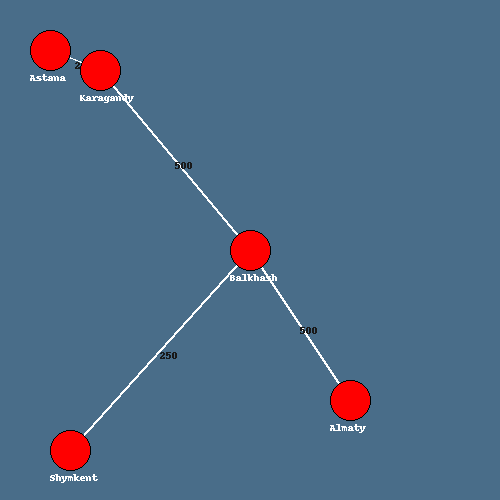
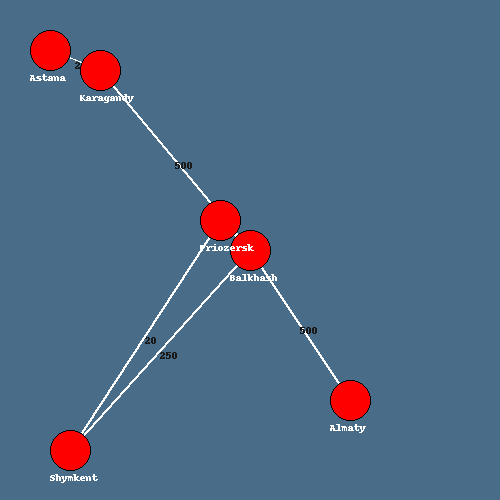
almsot implemented Dikstra's algorithm

diff --git a/test_dijkstra.py b/test_dijkstra.py
@@ -1,0 +1,82 @@
+import pytest
+from graph import Graph, Vertex, Edge
+from dijkstra import dikstra
+
+
+def test_simple():
+    almaty = Vertex("Almaty", 350, 400)
+    karagandy = Vertex("Karagandy", 100, 70)
+    astana = Vertex("Astana", 50, 50)
+    balkhash = Vertex("Balkhash", 250, 250)
+    shymkent = Vertex("Shymkent", 70, 450)
+    london = Vertex("London", 1000, 1000)
+
+    almaty_balkhash = Edge(almaty, balkhash, 500)
+    balkhash_shymkent = Edge(balkhash, shymkent, 250)
+    balkhash_karagandy = Edge(balkhash, karagandy, 500)
+    karagandy_astana = Edge(karagandy, astana, 200)
+
+    g = Graph()
+    g.add_vertex(almaty)
+    g.add_vertex(karagandy)
+    g.add_vertex(astana)
+    g.add_vertex(balkhash)
+    g.add_vertex(shymkent)
+    g.add_vertex(london)
+
+    g.add_edge(almaty_balkhash)
+    g.add_edge(balkhash_shymkent)
+    g.add_edge(balkhash_karagandy)
+    g.add_edge(karagandy_astana)
+
+    dikstra(g, almaty)
+    assert almaty.dist == 0
+    assert balkhash.dist == 500
+    assert shymkent.dist == 750
+    assert karagandy.dist == 1000
+    assert astana.dist == 1200
+    assert london.dist == float('inf')
+
+
+def test_shorter():
+    almaty = Vertex("Almaty", 350, 400)
+    karagandy = Vertex("Karagandy", 100, 70)
+    astana = Vertex("Astana", 50, 50)
+    balkhash = Vertex("Balkhash", 250, 250)
+    priozersk = Vertex("Priozersk", 220, 220)
+    shymkent = Vertex("Shymkent", 70, 450)
+
+    almaty_balkhash = Edge(almaty, balkhash, 500)
+    balkhash_shymkent = Edge(balkhash, shymkent, 250)
+    balkhash_karagandy = Edge(balkhash, karagandy, 500)
+    balkhash_priozersk = Edge(balkhash, priozersk, 30)
+    karagandy_astana = Edge(karagandy, astana, 200)
+
+    priozersk_shymkent = Edge(priozersk, shymkent, 20)
+
+    g = Graph()
+    g.add_vertex(almaty)
+    g.add_vertex(karagandy)
+    g.add_vertex(astana)
+    g.add_vertex(balkhash)
+    g.add_vertex(shymkent)
+    g.add_vertex(priozersk)
+
+    g.add_edge(almaty_balkhash)
+    g.add_edge(balkhash_shymkent)
+    g.add_edge(balkhash_karagandy)
+    g.add_edge(karagandy_astana)
+    g.add_edge(balkhash_priozersk)
+    g.add_edge(priozersk_shymkent)
+
+    path = dikstra(g, almaty, shymkent)
+    assert almaty.dist == 0
+    assert balkhash.dist == 500
+    assert priozersk.dist == 530
+    assert shymkent.dist == 550
+    assert karagandy.dist == 1000
+    assert astana.dist == float('inf')
+    assert path == [almaty, balkhash, priozersk, shymkent]
+
+    path = dikstra(g, shymkent, almaty)
+    assert path is None

diff --git a/main.py b/main.py
@@ -10,12 +10,16 @@ def kazakhstan() -> Graph:
     karagandy = Vertex("Karagandy", 100, 70)
     astana = Vertex("Astana", 50, 50)
     balkhash = Vertex("Balkhash", 250, 250)
+    priozersk = Vertex("Priozersk", 220, 220)
     shymkent = Vertex("Shymkent", 70, 450)
 
     almaty_balkhash = Edge(almaty, balkhash, 500)
     balkhash_shymkent = Edge(balkhash, shymkent, 250)
     balkhash_karagandy = Edge(balkhash, karagandy, 500)
+    balkhash_priozersk = Edge(balkhash, priozersk, 30)
     karagandy_astana = Edge(karagandy, astana, 200)
+
+    priozersk_shymkent = Edge(priozersk, shymkent, 20)
 
     g = Graph()
     g.add_vertex(almaty)
@@ -23,11 +27,14 @@ def kazakhstan() -> Graph:
     g.add_vertex(astana)
     g.add_vertex(balkhash)
     g.add_vertex(shymkent)
+    g.add_vertex(priozersk)
 
     g.add_edge(almaty_balkhash)
     g.add_edge(balkhash_shymkent)
     g.add_edge(balkhash_karagandy)
     g.add_edge(karagandy_astana)
+    g.add_edge(balkhash_priozersk)
+    g.add_edge(priozersk_shymkent)
 
     return g
 

diff --git a/dijkstra.py b/dijkstra.py
@@ -1,0 +1,14 @@
+from graph import Graph, Vertex, Edge
+from typing import List, Union
+
+
+def dikstra(g: Graph, v_start: Vertex, v_end: Vertex = None) -> Union[List[Vertex], None]:
+    """
+    v_end we will only use to stop the algorithm earlier. If v_end is None then we will go on until Q is empty.
+    :param v_start:
+    :param v_end:
+    :return: list of vertices in the shortest path from v_start to v_end
+    if there is no path from v_start to v_end then return None
+    if v_end is None, return None
+    """
+    ...

diff --git a/graph.py b/graph.py
@@ -17,6 +17,7 @@ class Vertex:
         self.y = y
         self.edges = []
         self.id = random.randint(0, 10000)
+        self.dist = None
 
     def add_edge(self, edge: Edge):
         self.edges.append(edge)
